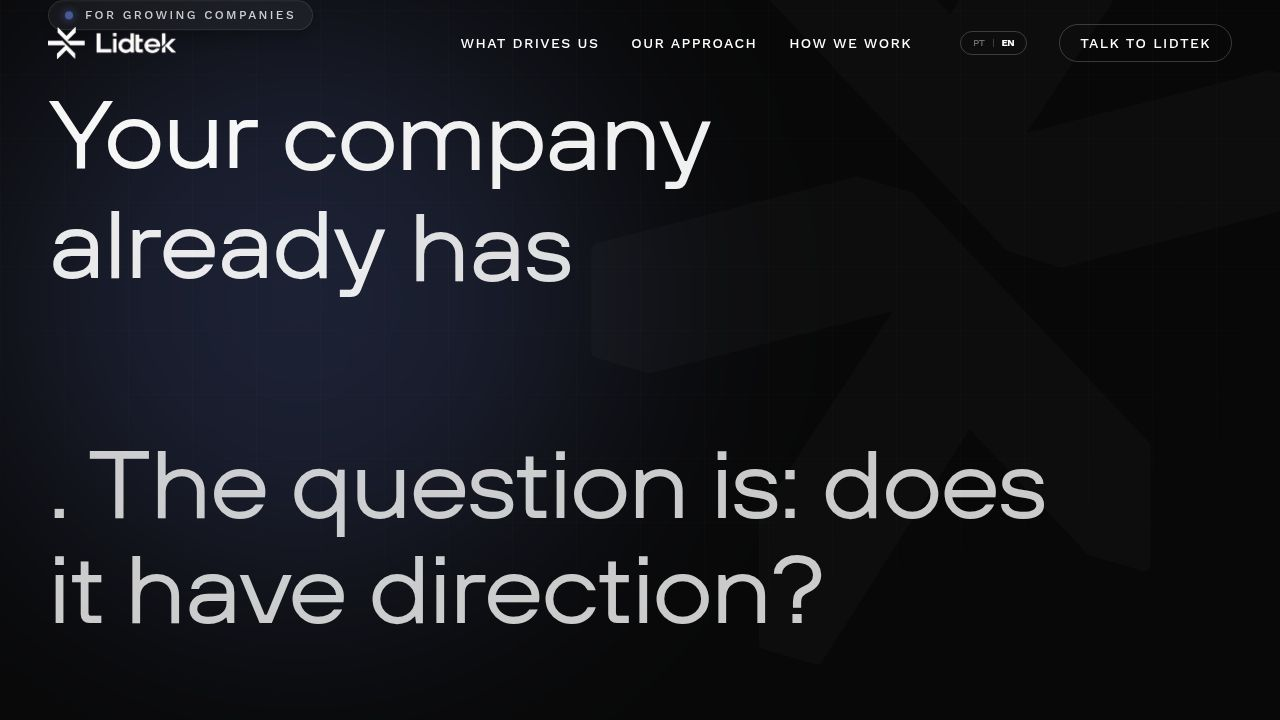
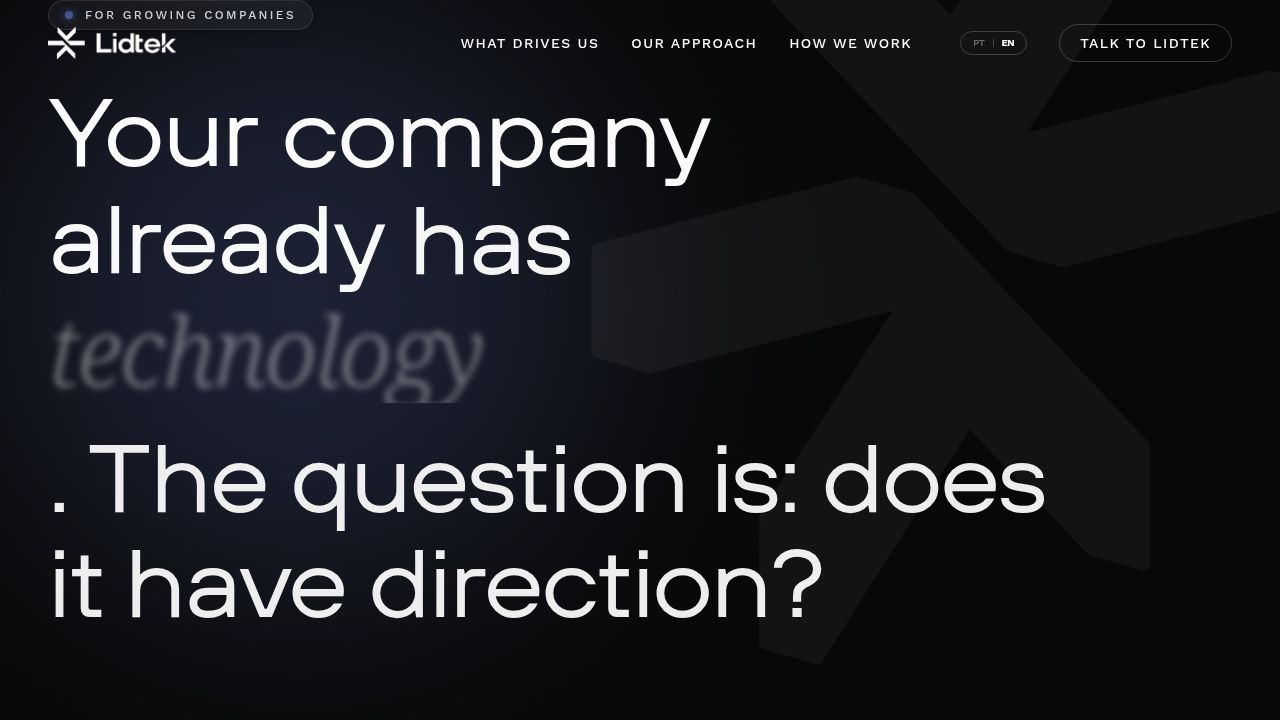
Enhance website with refined animations and visual polish
Introduce subtle animations, background gradients, and interactive elements across Hero, Approach, CTA, Model, Operations, and Problem sections to improve user experience and convey a premium feel.

Replit-Commit-Author: Agent
Replit-Commit-Session-Id: 6f560318-02ff-4de8-969b-9377b4206993
Replit-Commit-Checkpoint-Type: full_checkpoint
Replit-Commit-Event-Id: 0db53f8f-515e-4b17-a7b0-1800a19344a1
Replit-Commit-Screenshot-Url: https://storage.googleapis.com/screenshot-production-us-central1/1bd49003-f8b5-4081-a1ec-b8d74c53421b/6f560318-02ff-4de8-969b-9377b4206993/JuMKqC5
Replit-Helium-Checkpoint-Created: true

diff --git a/client/src/components/sections/Hero.tsx b/client/src/components/sections/Hero.tsx
@@ -28,12 +28,12 @@ export function Hero() {
 
   return (
     <section className="relative min-h-[100svh] flex flex-col justify-end pb-24 px-6 md:px-12 overflow-hidden bg-background">
-      {/* Animated Procedural Grid Background */}
-      <div className="absolute inset-0 pointer-events-none opacity-40">
+      {/* Animated Procedural Grid Background - Blueprint feel */}
+      <div className="absolute inset-0 pointer-events-none opacity-20">
         <motion.div 
-          animate={{ backgroundPosition: ["0px 0px", "0px 64px"] }}
-          transition={{ repeat: Infinity, duration: 4, ease: "linear" }}
-          className="absolute inset-0 bg-[linear-gradient(to_right,#ffffff0a_1px,transparent_1px),linear-gradient(to_bottom,#ffffff0a_1px,transparent_1px)] bg-[size:4rem_4rem] [mask-image:radial-gradient(ellipse_80%_80%_at_50%_0%,#000_70%,transparent_100%)]"
+          animate={{ backgroundPosition: ["0px 0px", "0px 32px"] }}
+          transition={{ repeat: Infinity, duration: 12, ease: "linear" }}
+          className="absolute inset-0 bg-[linear-gradient(to_right,#ffffff05_1px,transparent_1px),linear-gradient(to_bottom,#ffffff05_1px,transparent_1px)] bg-[size:2rem_2rem] [mask-image:radial-gradient(ellipse_80%_80%_at_50%_0%,#000_70%,transparent_100%)]"
         />
       </div>
       
@@ -47,9 +47,9 @@ export function Hero() {
 
       {/* SVG drawing animation */}
       <motion.div 
-        initial={{ opacity: 0 }}
-        animate={{ opacity: 0.05 }}
-        transition={{ duration: 2, ease: "easeOut" }}
+        initial={{ opacity: 0, scale: 0.95 }}
+        animate={{ opacity: 0.05, scale: 1 }}
+        transition={{ duration: 1.2, ease: [0.16, 1, 0.3, 1] }}
         className="absolute -right-1/4 -top-1/4 w-[150%] h-[150%] md:w-full md:h-full text-white pointer-events-none origin-center z-0"
       >
         <LidtekSVG className="w-full h-full object-contain" />
@@ -71,8 +71,8 @@ export function Hero() {
             {t("hero.title1").split(" ").map((word, i) => (
               <motion.span 
                 key={i}
-                initial={{ opacity: 0, y: 50 }}
-                animate={{ opacity: 1, y: 0 }}
+                initial={{ opacity: 0, filter: "blur(8px)", y: 20 }}
+                animate={{ opacity: 1, filter: "blur(0px)", y: 0 }}
                 transition={{ duration: 0.8, ease: [0.16, 1, 0.3, 1], delay: 0.3 + (i * 0.05) }}
                 className="mr-[1.5rem]"
               >
@@ -80,9 +80,9 @@ export function Hero() {
               </motion.span>
             ))}
             <motion.span 
-              initial={{ opacity: 0, filter: "blur(10px)" }}
+              initial={{ opacity: 0, filter: "blur(8px)" }}
               animate={{ opacity: 1, filter: "blur(0px)" }}
-              transition={{ duration: 1.2, delay: 0.8 }}
+              transition={{ duration: 1.2, ease: [0.16, 1, 0.3, 1], delay: 0.6 }}
               className="italic text-white/60 block w-full mt-2 font-serif"
             >
               {t("hero.title1_italic")}
@@ -102,15 +102,16 @@ export function Hero() {
           initial={{ opacity: 0 }}
           animate={{ opacity: 1 }}
           transition={{ duration: 1, delay: 0.8 }}
-          className="flex items-center gap-6 mt-12 group cursor-pointer"
+          className="flex items-center gap-6 mt-12 group cursor-pointer hover:-translate-y-0.5 transition-transform duration-500 ease-[cubic-bezier(0.16,1,0.3,1)]"
           onClick={() => {
             document.getElementById('problem')?.scrollIntoView({ behavior: 'smooth' });
           }}
         >
-          <div className="w-16 h-16 rounded-full border border-white/20 flex items-center justify-center bg-white/5 backdrop-blur-sm group-hover:bg-primary group-hover:border-primary group-hover:text-black group-hover:scale-110 shadow-[0_0_0_hsl(var(--primary))] group-hover:shadow-[0_0_30px_hsl(var(--primary))] transition-all duration-500 ease-[cubic-bezier(0.16,1,0.3,1)] relative overflow-hidden">
+          <div className="w-16 h-16 rounded-full border border-white/20 flex items-center justify-center bg-white/5 backdrop-blur-sm group-hover:bg-primary group-hover:border-primary group-hover:text-black group-hover:scale-105 shadow-[0_0_0_hsl(var(--primary))] group-hover:shadow-[0_10px_40px_-10px_hsl(var(--primary))] transition-all duration-500 ease-[cubic-bezier(0.16,1,0.3,1)] relative overflow-hidden">
             <ArrowDownRight size={24} weight="regular" className="relative z-10 text-white group-hover:text-background transition-colors" />
+            <div className="absolute inset-0 bg-white/20 scale-0 group-hover:scale-100 rounded-full transition-transform duration-500 ease-[cubic-bezier(0.16,1,0.3,1)] opacity-0 group-hover:opacity-100" />
           </div>
-          <span className="uppercase tracking-widest text-sm text-white/60 group-hover:text-white transition-colors duration-500">{t("hero.explore")}</span>
+          <span className="uppercase tracking-widest text-sm text-white/60 group-hover:text-white transition-colors duration-500 font-medium">{t("hero.explore")}</span>
         </motion.div>
       </div>
     </section>

diff --git a/client/src/components/sections/CTA.tsx b/client/src/components/sections/CTA.tsx
@@ -8,7 +8,17 @@ export function CTA() {
 
   return (
     <section id="contact" className="py-40 px-6 md:px-12 bg-background text-white relative overflow-hidden">
+      {/* Background animado estrutural */}
+      <div className="absolute inset-0 pointer-events-none opacity-10">
+        <motion.div 
+          animate={{ backgroundPosition: ["0px 0px", "0px 32px"] }}
+          transition={{ repeat: Infinity, duration: 15, ease: "linear" }}
+          className="absolute inset-0 bg-[linear-gradient(to_right,#ffffff05_1px,transparent_1px),linear-gradient(to_bottom,#ffffff05_1px,transparent_1px)] bg-[size:2rem_2rem] [mask-image:radial-gradient(ellipse_100%_100%_at_50%_50%,#000_60%,transparent_100%)]"
+        />
+      </div>
+
       <div className="absolute right-0 top-0 w-1/2 h-full bg-white/[0.02] pointer-events-none -skew-x-12 translate-x-20" />
+      <div className="absolute top-1/2 left-0 w-full h-[1px] bg-white/5 pointer-events-none" />
       <div className="absolute bottom-0 left-1/2 -translate-x-1/2 translate-y-1/2 w-[600px] h-[600px] bg-primary/10 rounded-full blur-[120px] pointer-events-none" />
       
       <div className="max-w-7xl mx-auto w-full flex flex-col items-center text-center relative z-10">
@@ -24,16 +34,20 @@ export function CTA() {
             {t("cta.title")}
           </h3>
           
-          <a 
-            href={whatsappUrl}
-            target="_blank"
-            rel="noopener noreferrer"
-            className="group relative px-10 py-5 bg-white text-black overflow-hidden rounded-full flex items-center gap-4 hover:shadow-[0_0_40px_rgba(255,255,255,0.3)] transition-all duration-500 hover:-translate-y-1 scale-100 hover:scale-105"
-          >
-            <span className="relative z-10 font-medium uppercase tracking-widest text-sm transition-colors group-hover:text-white">{t("cta.btn")}</span>
-            <ArrowRight size={20} className="relative z-10 opacity-0 -ml-6 group-hover:opacity-100 group-hover:ml-0 transition-all duration-500 group-hover:text-white" weight="bold" />
-            <div className="absolute inset-0 bg-primary scale-x-0 origin-left group-hover:scale-x-100 transition-transform duration-500 ease-[cubic-bezier(0.16,1,0.3,1)] z-0" />
-          </a>
+          <div className="relative group mt-8">
+            {/* Glow suave atrás do botão */}
+            <div className="absolute inset-0 bg-primary/20 blur-2xl rounded-full scale-90 group-hover:scale-110 opacity-0 group-hover:opacity-100 transition-all duration-[600ms] ease-[cubic-bezier(0.16,1,0.3,1)] pointer-events-none" />
+            <a 
+              href={whatsappUrl}
+              target="_blank"
+              rel="noopener noreferrer"
+              className="relative px-10 py-5 bg-white text-black overflow-hidden rounded-full flex items-center gap-4 shadow-[0_0_0_rgba(255,255,255,0)] hover:shadow-[0_10px_40px_-10px_rgba(255,255,255,0.4)] transition-all duration-[600ms] ease-[cubic-bezier(0.16,1,0.3,1)] hover:-translate-y-1 scale-100"
+            >
+              <span className="relative z-10 font-medium uppercase tracking-widest text-sm transition-colors group-hover:text-white">{t("cta.btn")}</span>
+              <ArrowRight size={20} className="relative z-10 opacity-0 -ml-6 group-hover:opacity-100 group-hover:ml-0 transition-all duration-500 group-hover:text-white" weight="bold" />
+              <div className="absolute inset-0 bg-primary scale-x-0 origin-left group-hover:scale-x-100 transition-transform duration-[600ms] ease-[cubic-bezier(0.16,1,0.3,1)] z-0" />
+            </a>
+          </div>
         </motion.div>
       </div>
     </section>

diff --git a/client/src/components/sections/Problem.tsx b/client/src/components/sections/Problem.tsx
@@ -32,7 +32,10 @@ export function Problem() {
           </p>
         </motion.div>
         
-        <motion.div style={{ y: y1 }} className="space-y-6">
+        <motion.div style={{ y: y1 }} className="space-y-6 relative">
+          {/* Linha lateral conectando (progressão) */}
+          <div className="absolute left-4 top-8 bottom-8 w-[1px] bg-gradient-to-b from-transparent via-black/10 to-transparent hidden md:block" />
+          
           {[
             { title: t("problem.debt.title"), desc: t("problem.debt.desc") },
             { title: t("problem.generic.title"), desc: t("problem.generic.desc") },
@@ -44,11 +47,15 @@ export function Problem() {
               initial={{ opacity: 0, y: 20 }}
               whileInView={{ opacity: 1, y: 0 }}
               viewport={{ once: true, margin: "-50px" }}
-              transition={{ duration: 0.6, delay: i * 0.1 }}
-              className={`p-8 border flex flex-col gap-2 transition-all duration-500 hover:-translate-y-1 hover:shadow-xl backdrop-blur-md rounded-2xl ${item.highlight ? 'border-primary/20 bg-primary/5 shadow-lg shadow-primary/10' : 'border-black/[0.08] bg-white/50 hover:bg-white'}`}
+              transition={{ duration: 0.6, ease: [0.16, 1, 0.3, 1], delay: i * 0.1 }}
+              className={`group relative p-8 border flex flex-col gap-2 transition-all duration-[600ms] ease-[cubic-bezier(0.16,1,0.3,1)] hover:-translate-y-1 hover:shadow-xl backdrop-blur-md rounded-2xl md:ml-12 ${item.highlight ? 'border-primary/20 bg-primary/5 shadow-lg shadow-primary/10' : 'border-black/[0.08] bg-white/50 hover:bg-white'}`}
             >
-              <h4 className={`text-lg font-medium tracking-wide ${item.highlight ? 'text-primary' : 'text-black'}`}>{item.title}</h4>
-              <p className="text-sm text-black/60 font-sans">{item.desc}</p>
+              <div className="absolute inset-0 border border-black/0 rounded-2xl opacity-0 group-hover:opacity-100 group-hover:border-black/5 transition-all duration-500 pointer-events-none" />
+              {/* Ponto na linha */}
+              <div className="absolute -left-[3.25rem] top-1/2 -translate-y-1/2 w-2 h-2 rounded-full bg-black/10 group-hover:bg-primary transition-colors duration-500 hidden md:block" />
+              
+              <h4 className={`text-lg font-medium tracking-wide relative z-10 ${item.highlight ? 'text-primary' : 'text-black'}`}>{item.title}</h4>
+              <p className="text-sm text-black/60 font-sans relative z-10">{item.desc}</p>
             </motion.div>
           ))}
         </motion.div>

diff --git a/client/src/components/sections/Model.tsx b/client/src/components/sections/Model.tsx
@@ -57,12 +57,16 @@ export function Model() {
                    <div className={`w-1.5 h-1.5 rounded-full transition-all duration-500 ${hoveredIndex === i ? 'bg-primary shadow-[0_0_10px_hsl(var(--primary))] scale-150' : 'bg-transparent'}`} />
                 </div>
 
-                <div className={`mt-8 md:mt-24 transition-all duration-500 ${hoveredIndex === i ? 'translate-y-[-8px]' : ''}`}>
-                  <span className={`text-6xl font-display font-light mb-6 block transition-colors duration-500 ${hoveredIndex === i ? 'text-primary' : 'text-white/10'}`}>
-                    {step.step}
-                  </span>
-                  <h4 className="text-xl font-medium mb-4 leading-tight text-white">{step.title}</h4>
-                  <p className="text-white/50 font-sans text-sm leading-relaxed">{step.desc}</p>
+                <div className={`mt-8 md:mt-24 transition-all duration-[600ms] ease-[cubic-bezier(0.16,1,0.3,1)] ${hoveredIndex === i ? 'translate-y-[-8px]' : ''}`}>
+                  <div className="relative inline-block mb-6">
+                    <span className={`text-6xl font-display font-light block transition-colors duration-500 ${hoveredIndex === i ? 'text-primary' : 'text-white/10'}`}>
+                      {step.step}
+                    </span>
+                    {/* Sutil glow na letra no hover */}
+                    <div className={`absolute inset-0 blur-xl transition-opacity duration-500 bg-primary/30 ${hoveredIndex === i ? 'opacity-100' : 'opacity-0'} pointer-events-none`} />
+                  </div>
+                  <h4 className={`text-xl font-medium mb-4 leading-tight transition-colors duration-500 ${hoveredIndex === i ? 'text-white' : 'text-white/80'}`}>{step.title}</h4>
+                  <p className={`font-sans text-sm leading-relaxed transition-all duration-500 ease-[cubic-bezier(0.16,1,0.3,1)] ${hoveredIndex === i ? 'text-white/70' : 'text-white/40'}`}>{step.desc}</p>
                 </div>
               </motion.div>
             ))}

diff --git a/client/src/components/sections/Approach.tsx b/client/src/components/sections/Approach.tsx
@@ -30,14 +30,18 @@ export function Approach() {
 
   return (
     <section id="approach" className="py-32 px-6 md:px-12 bg-white text-black relative border-t border-black/10 overflow-hidden">
-      {/* Light subtle radial gradient */}
-      <div className="absolute top-1/2 left-1/2 -translate-x-1/2 -translate-y-1/2 w-[800px] h-[800px] bg-primary/5 rounded-full blur-[100px] pointer-events-none" />
+      {/* Light subtle radial gradient - Luz sutil direcionando leitura */}
+      <div className="absolute top-0 right-1/4 w-[600px] h-[600px] bg-primary/[0.03] rounded-full blur-[120px] pointer-events-none" />
+      <div className="absolute bottom-0 left-1/4 w-[800px] h-[800px] bg-black/[0.02] rounded-full blur-[100px] pointer-events-none" />
       
       <div className="max-w-7xl mx-auto w-full relative z-10">
         <div className="mb-24 flex flex-col md:flex-row md:items-end justify-between gap-8">
-          <div>
-            <h2 className="text-xs uppercase tracking-[0.2em] font-semibold text-black/40 mb-4">{t("approach.tag")}</h2>
-            <h3 className="text-4xl md:text-6xl font-display font-light text-black max-w-2xl text-balance">
+          <div className="relative">
+            <h2 className="text-xs uppercase tracking-[0.2em] font-semibold text-black/40 mb-4 flex items-center gap-3">
+              <div className="w-8 h-[1px] bg-black/20" />
+              {t("approach.tag")}
+            </h2>
+            <h3 className="text-4xl md:text-6xl font-display font-light text-black max-w-2xl text-balance relative z-10">
               {t("approach.title")}
             </h3>
           </div>

diff --git a/client/src/components/sections/Operations.tsx b/client/src/components/sections/Operations.tsx
@@ -34,12 +34,12 @@ export function Operations() {
               initial={{ opacity: 0, y: 20 }}
               whileInView={{ opacity: 1, y: 0 }}
               viewport={{ once: true }}
-              transition={{ duration: 0.6, delay: i * 0.1 }}
-              className="p-8 border border-black/5 bg-black/[0.02] rounded-2xl hover:bg-black/[0.04] transition-colors"
+              transition={{ duration: 0.6, ease: [0.16, 1, 0.3, 1], delay: i * 0.1 }}
+              className="group p-8 border border-black/5 bg-black/[0.02] rounded-2xl hover:bg-white hover:border-black/10 hover:shadow-[0_10px_40px_-15px_rgba(0,0,0,0.1)] hover:-translate-y-1 transition-all duration-[600ms] ease-[cubic-bezier(0.16,1,0.3,1)]"
             >
-              <CheckCircle size={24} weight="fill" className="text-primary mb-6" />
-              <div className="text-3xl font-display font-light mb-2">{item.value}</div>
-              <div className="text-sm font-medium text-black/60">{item.title}</div>
+              <CheckCircle size={24} weight="fill" className="text-black/20 group-hover:text-primary group-hover:scale-110 transition-all duration-500 mb-6" />
+              <div className="text-3xl font-display font-light mb-2 text-black transition-colors duration-500">{item.value}</div>
+              <div className="text-sm font-medium text-black/60 group-hover:text-black/80 transition-colors duration-500">{item.title}</div>
             </motion.div>
           ))}
         </div>
